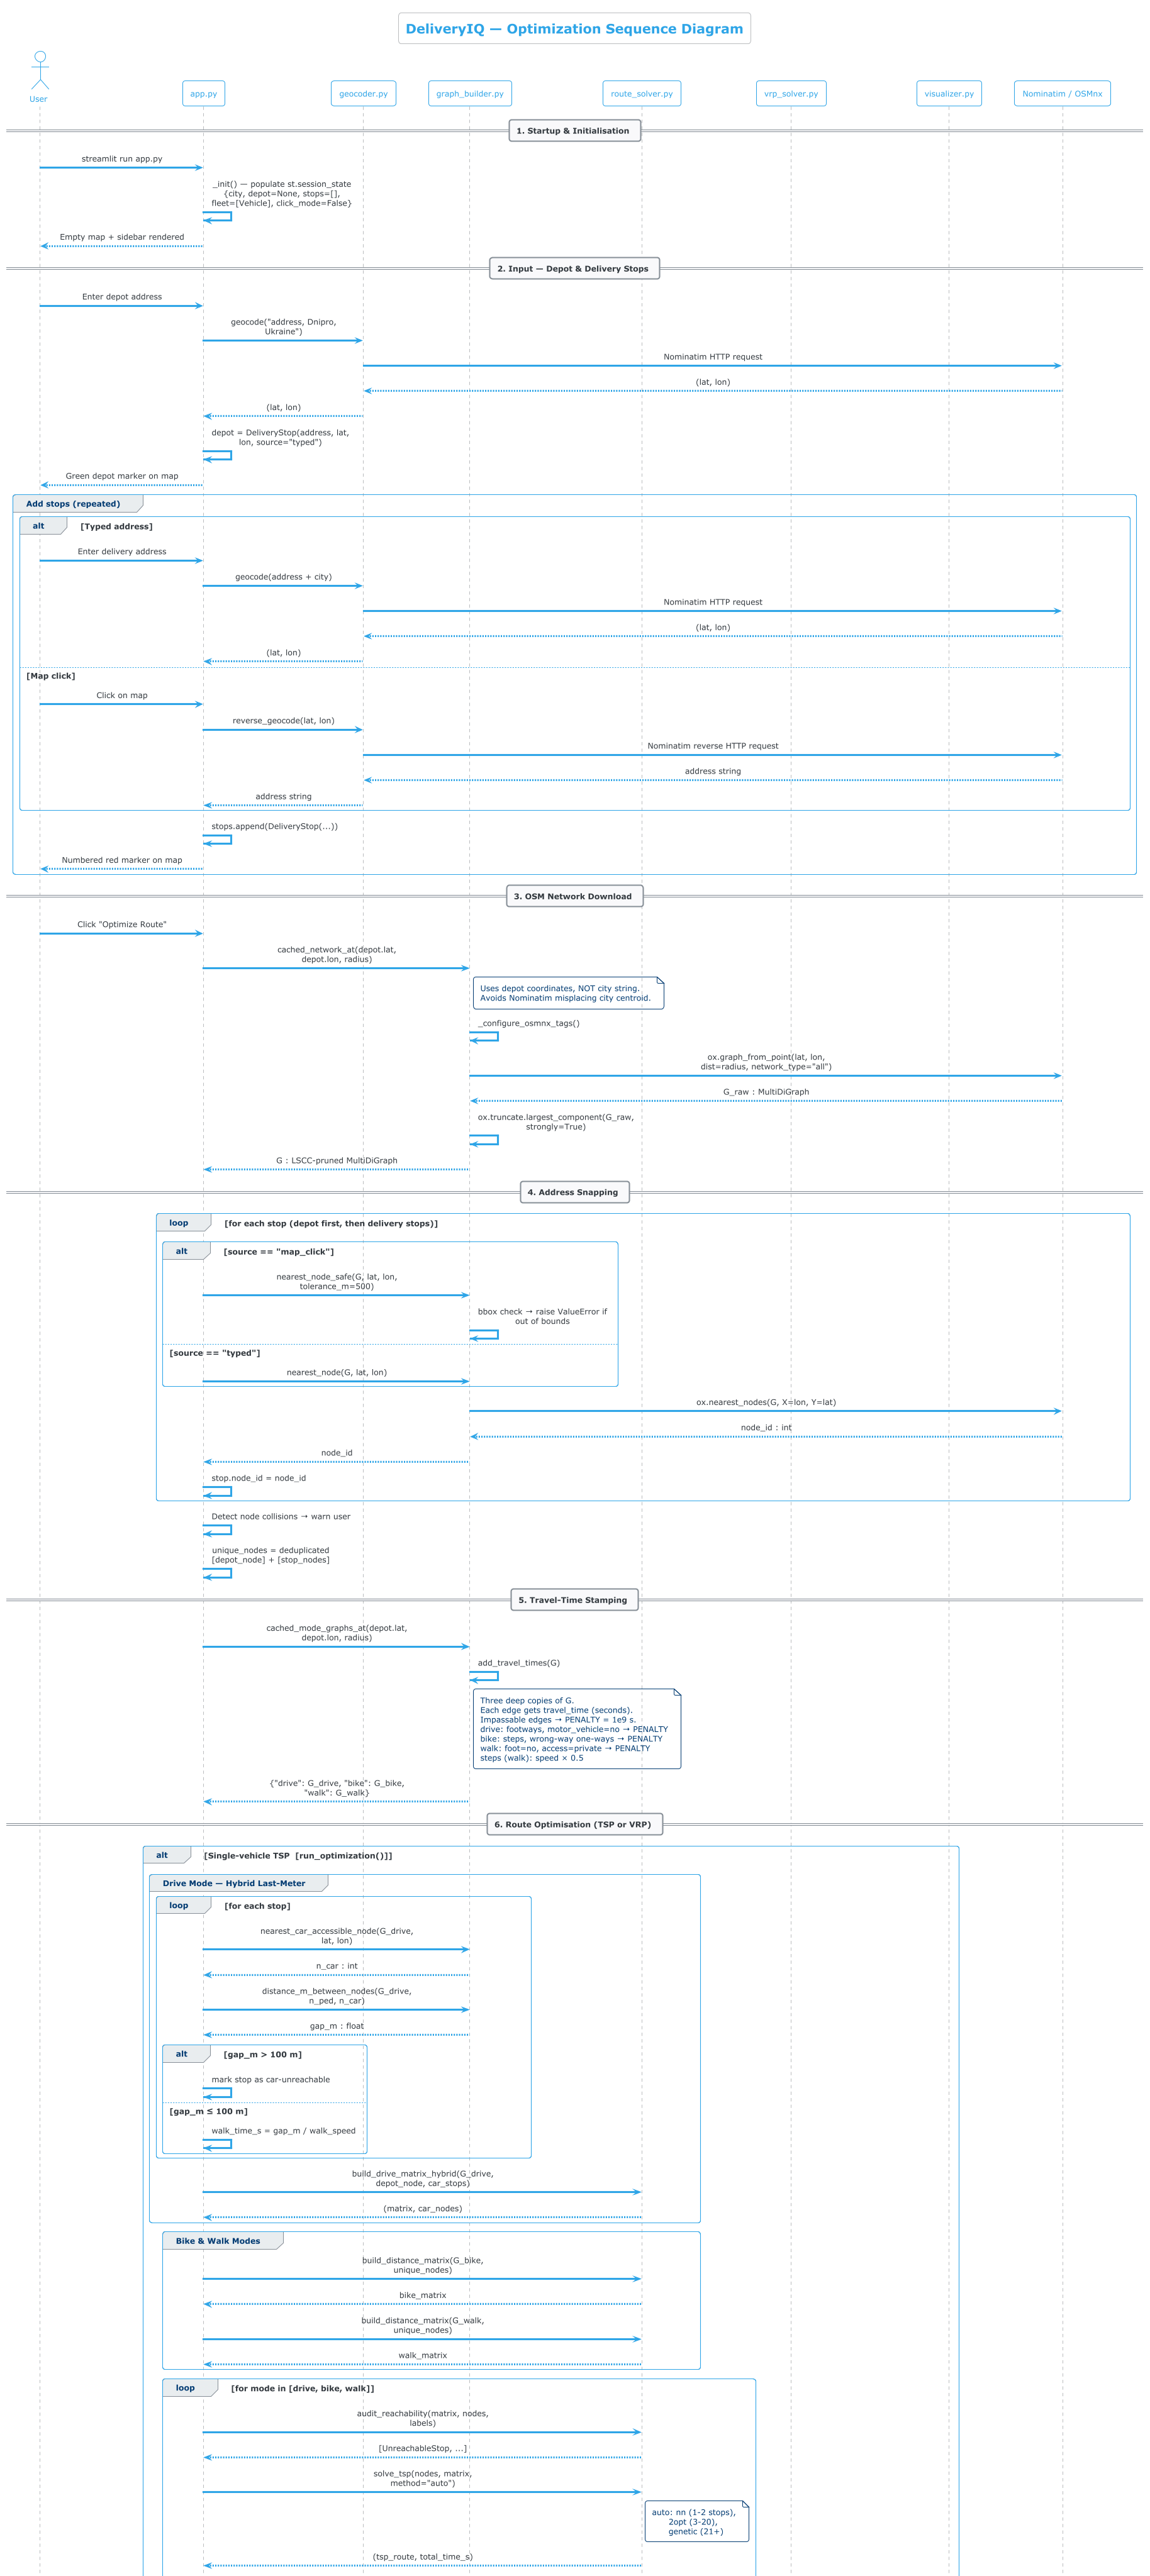
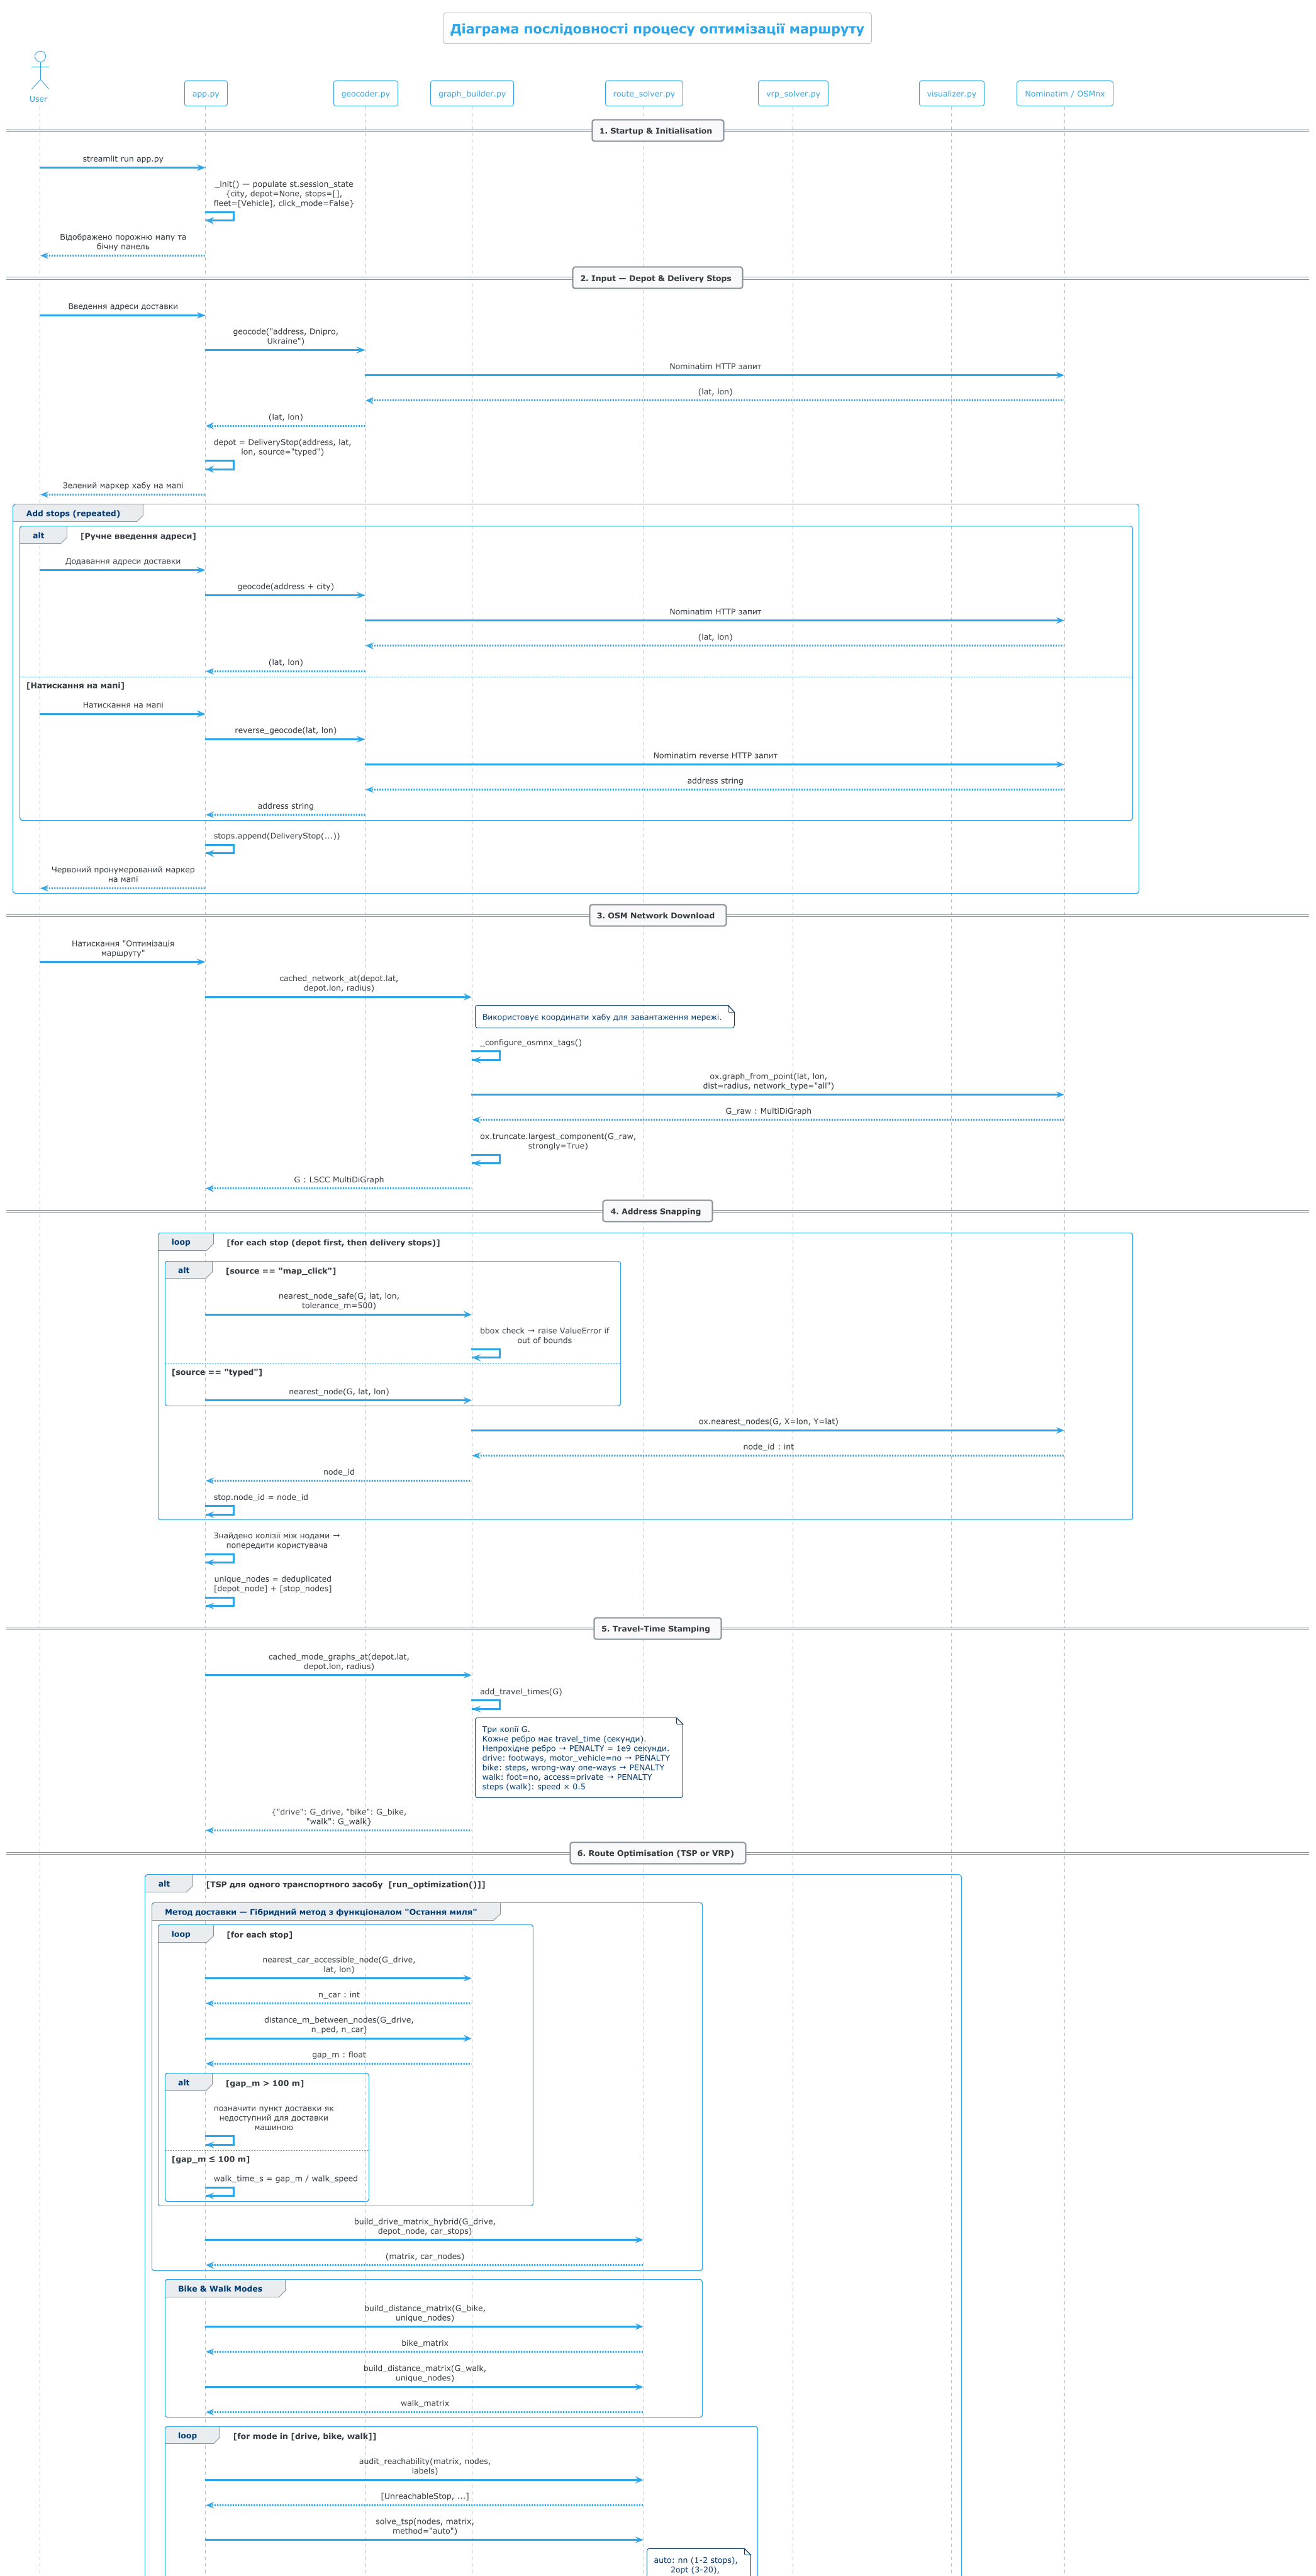
changed back to english

diff --git a/CLAUDE.md b/CLAUDE.md
@@ -4,7 +4,7 @@ This file provides guidance to Claude Code (claude.ai/code) when working with co
 
 ## Project Overview
 
-**DeliveryIQ** — a Streamlit-based delivery route optimizer that solves the Travelling Salesman Problem (TSP) over real OSM street networks with multi-modal routing (drive / bike / walk).
+**DeliveryIQ** — a Streamlit-based delivery route optimizer that solves TSP (single-vehicle) and CVRPTW (multi-vehicle) over real OSM street networks with multi-modal routing (drive / bike / walk).
 
 ## Running the Application
 
@@ -27,46 +27,61 @@ pip install -r requirements.txt
 
 ## Architecture
 
-The app is composed of five modules with a clear data-flow pipeline:
+Seven modules with a clear data-flow pipeline:
 
 ```
-app.py  (Streamlit UI)
+app.py          (Streamlit UI — TSP tab, VRP tab, Package Manager tab, Fleet Settings tab)
   └─> geocoder.py       — Nominatim address → (lat, lon)
   └─> graph_builder.py  — OSM network download, LSCC pruning, travel-time stamping
   └─> route_solver.py   — distance matrix (Dijkstra) + TSP (NN / 2-opt / genetic / Christofides)
+  └─> vrp_solver.py     — CVRPTW multi-vehicle GA decoder (solve_vrp, VehicleRoute)
+  └─> package_db.py     — SQLite-backed package DB with status tracking (PackageDB)
   └─> visualizer.py     — Folium map with AntPath animated routes
 ```
 
 ### Key Design Decisions
 
-**City lock**: `DEFAULT_CITY = "Dnipro, Ukraine"` in `app.py:56`. Change this one line to re-scope all geocoding to a different city.
+**City lock**: `DEFAULT_CITY = "Dnipro, Ukraine"` in `app.py:64`. Change this one line to re-scope all geocoding to a different city.
 
 **OSMnx version**: requires `osmnx>=2.1`. Uses `ox.settings.useful_tags_way`, `ox.truncate.largest_component`, and `ox.nearest_nodes` — all 2.x API. Do not introduce 1.x compatibility shims.
 
-**PENALTY sentinel (1e9 s)**: Used consistently in both `graph_builder.py` and `route_solver.py` to mark impassable edges and unreachable matrix pairs. The value must be identical in both files — `audit_reachability()` in `route_solver.py` flags pairs with cost `>= PENALTY`. Never change one without the other.
+**PENALTY sentinel (1e9 s)**: Defined identically in `graph_builder.py:53` and `route_solver.py:54` to mark impassable edges and unreachable matrix pairs. `audit_reachability()` flags pairs with cost `>= PENALTY`. Never change one file without the other.
 
-**'all' network + LSCC pruning**: The graph is downloaded as `network_type="all"` to capture walk/bike paths, then immediately pruned to the Largest Strongly Connected Component. Always snap node coordinates to the LSCC-pruned graph (output of `get_network()`), not the raw download — snapping before pruning produces nodes absent from the final graph.
+**'all' network + LSCC pruning**: Graph downloaded as `network_type="all"` to capture walk/bike paths, then pruned to the Largest Strongly Connected Component. Always snap node coordinates to the LSCC-pruned graph (output of `get_network()`), not the raw download — snapping before pruning produces nodes absent from the final graph.
 
 **Three modal graph copies**: `add_travel_times()` returns `{"drive": G_drive, "bike": G_bike, "walk": G_walk}` — three independent deep copies each with `travel_time` edge attributes encoding modal access rules. The alternative `add_travel_times_to_single_graph()` puts all three on one graph as `travel_time_drive/bike/walk`.
 
-**TSP method auto-selection**: `solve_tsp(method="auto")` picks `nn` for 1-2 stops, `2opt` for 3-20, `genetic` for 21+. Christofides is available as an explicit method but requires a complete connected graph — it will fail/fall back when any stop is unreachable.
+**TSP method auto-selection**: `solve_tsp(method="auto")` picks `nn` for 1–2 stops, `2opt` for 3–20, `genetic` for 21+. Christofides is available as an explicit method but requires a complete connected graph — it will fail/fall back when any stop is unreachable. `2opt` is preferred over Christofides for small instances because it handles PENALTY-weight edges gracefully.
 
-**Hybrid last-meter routing** (drive mode): `build_drive_matrix_hybrid()` and `nearest_car_accessible_node()` support a pattern where the car parks at the nearest driveable node and the last segment is walked. The `_node_car_accessible()` helper checks incident edges.
+**Hybrid last-meter routing** (drive mode): `build_drive_matrix_hybrid()` and `nearest_car_accessible_node()` implement a pattern where the car parks at the nearest driveable node and the last segment (≤ `LAST_METER_THRESHOLD_M = 100.0 m`) is walked. `_node_car_accessible()` checks incident edges.
 
-**OSMnx tag retention**: `_configure_osmnx_tags()` must be called before any `ox.graph_from_*` download to keep modal tags (`bicycle`, `motor_vehicle`, `cycleway:*`, etc.) on edges. It is called automatically inside `get_network()` and `get_network_from_place()`.
+**OSMnx tag retention**: `_configure_osmnx_tags()` must be called before any `ox.graph_from_*` download to keep modal tags (`bicycle`, `motor_vehicle`, `cycleway:*`, etc.) on edges. Called automatically inside `get_network()` and `get_network_from_place()`.
 
 **Depot-centred graph download**: During optimization, the OSM graph is downloaded via `cached_network_at(depot.lat, depot.lon, radius)` (`ox.graph_from_point`) rather than by city name string. Nominatim can place a city-name label far from the actual delivery area, causing all addresses to snap to a single boundary node. The city-name based `cached_network(city, radius)` is kept only for the pre-optimization map display.
 
-**Streamlit session state**: All expensive computation (graph download, travel-time stamping, distance matrix) is cached in `st.session_state` to avoid re-running on every widget interaction. The optimization graph is keyed by `(depot.lat, depot.lon, radius)`.
+**Mapbox fallback**: `build_drive_matrix_mapbox()` provides a traffic-aware drive matrix when an API key is available, with automatic fallback to static OSM Dijkstra when the key is absent or the call fails.
+
+**VRP solver**: `solve_vrp()` in `vrp_solver.py` implements CVRPTW with a two-phase GA decoder — Phase 1 assigns stops to vehicles by mode compatibility and capacity, Phase 2 runs an independent TSP GA per mode group. Key GA parameters: `POP_SIZE=50`, `N_GENERATIONS=150`, `CROSSOVER_RATE=0.85`, `MUTATION_RATE=0.15`, `ELITE_SIZE=2`, `TOURNAMENT_SIZE=3`. Objective: `F = A·T_total + B·K` (total travel time + vehicle count penalty).
+
+**Package database**: `PackageDB` in `package_db.py` persists packages in SQLite. Statuses: `PENDING → IN_TRANSIT → DELIVERED`. Packages carry `weight_kg`, `address`, optional `(lat, lon)`, and `package_id`.
+
+**Time windows**: `DeliveryStop` has `tw_open`, `tw_close`, `service_time` fields used by `vrp_solver.py`. These are optional (None = unconstrained).
+
+**Streamlit session state**: All expensive computation is cached in `st.session_state`. Key keys: `depot`, `stops`, `fleet`, `opt_results`, `opt_graphs`, `opt_warnings`, `opt_car_unreachable`, `opt_vrp_results`, `opt_vrp_warnings`, `click_mode`, `last_click`. Optimization graph keyed by `(depot.lat, depot.lon, radius)`.
 
 ### Modal Routing Rules Summary
 
 | Edge type | drive | bike | walk |
 |---|---|---|---|
-| `highway=footway/pedestrian/steps` | PENALTY | passable | passable (steps: 50% speed) |
[1 lines of base64/hex data omitted]
 | `motor_vehicle=no/private/destination` | PENALTY | passable | passable |
-| `highway=cycleway` or `bicycle=yes` | passable | passable | passable |
-| One-way reversed edge | — | PENALTY (unless `oneway:bicycle=no` / `cycleway=opposite*`) | passable |
+| `access=no/private/destination` (no motor_vehicle override) | PENALTY | passable | passable |
+| `bicycle=no/dismount` | passable | PENALTY | passable |
+| `highway=cycleway` or `bicycle=yes/designated/permissive` | passable | fast | passable |
+| One-way reversed edge | — | PENALTY (unless `oneway:bicycle=no` / `bicycle:oneway=no` / `cycleway=opposite*`) | passable |
+| `foot=no/private` | passable | passable | PENALTY |
+
+Speed constants: drive=30 km/h, bike=15 km/h, walk=5 km/h (steps=2.5 km/h effective).
 
 ### Cache Directory
 